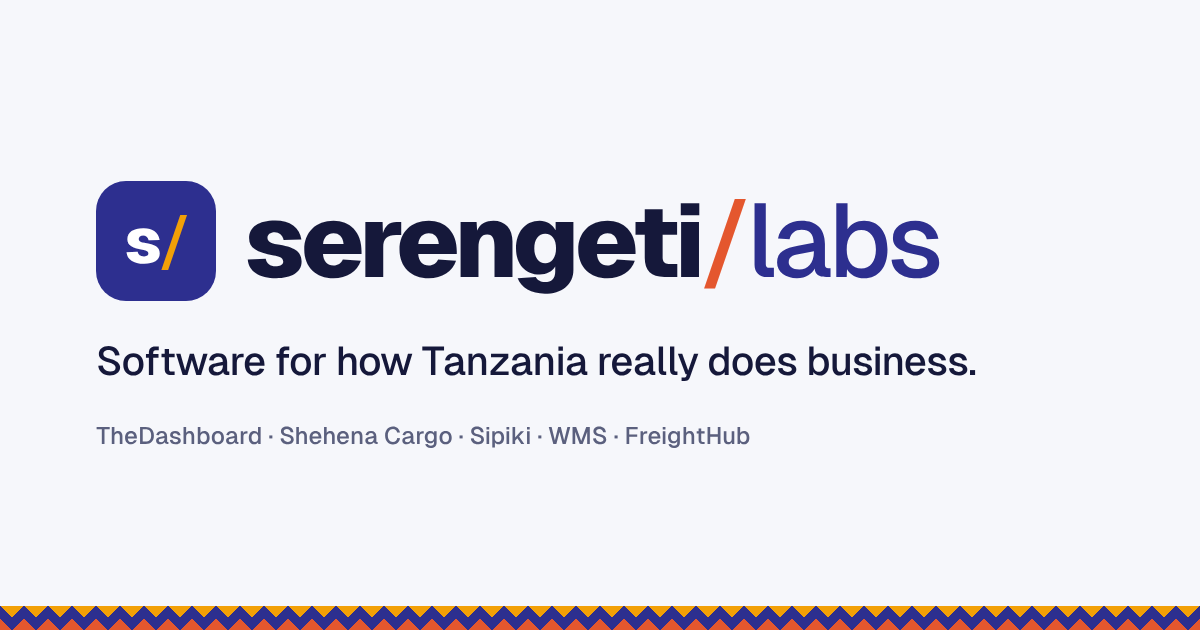
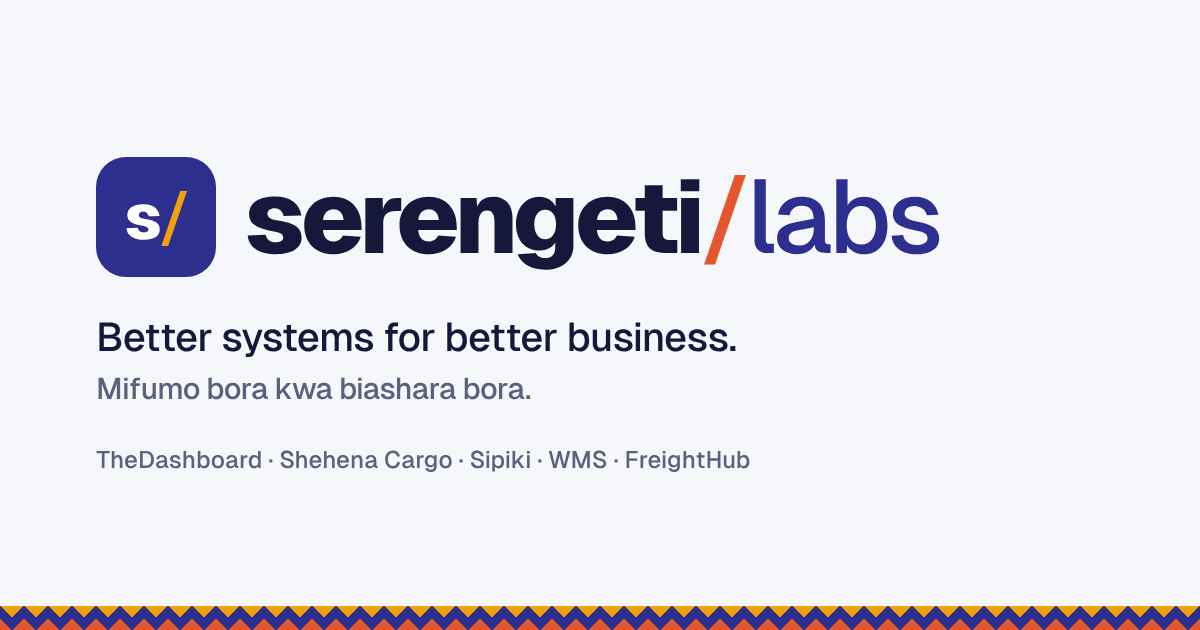
New tagline: Better systems for better business
Claude-Session: https://claude.ai/code/session_01KQ6XjyuvCsB7kb1ECrUmR9

diff --git a/index.html b/index.html
@@ -3,7 +3,7 @@
 <head>
 <meta charset="utf-8">
 <meta name="viewport" content="width=device-width, initial-scale=1, viewport-fit=cover">
-<title>Serengeti Labs · Software for how Tanzania really does business</title>
+<title>Serengeti Labs · Better systems for better business</title>
 <meta name="description" content="Serengeti Labs builds point of sale, cargo, warehouse and freight software for Tanzanian businesses: TheDashboard, Shehena Cargo, Sipiki, WMS and FreightHub.">
 <link rel="canonical" href="https://serengetilabs.co.tz/">
 <link rel="icon" href="/favicon.svg" type="image/svg+xml">
@@ -11,7 +11,7 @@
 <meta name="theme-color" content="#2D2F8F">
 <meta property="og:type" content="website">
 <meta property="og:site_name" content="Serengeti Labs">
-<meta property="og:title" content="Serengeti Labs · Software for how Tanzania really does business">
+<meta property="og:title" content="Serengeti Labs · Better systems for better business">
 <meta property="og:description" content="Serengeti Labs builds point of sale, cargo, warehouse and freight software for Tanzanian businesses: TheDashboard, Shehena Cargo, Sipiki, WMS and FreightHub.">
 <meta property="og:url" content="https://serengetilabs.co.tz/">
 <meta property="og:image" content="https://serengetilabs.co.tz/og-image.png">
@@ -288,7 +288,8 @@ footer{border-top:1px solid var(--line);padding-block:32px}
     <div class="wrap hero-grid">
       <div class="hero-copy">
         <p class="kicker">Software studio · Dar es Salaam</p>
-        <h1>Software for how Tanzania <mark>really</mark> does business.</h1>
+        <h1>Better systems for <mark>better</mark> business.</h1>
+        <p class="sw" style="margin-top:-10px;font-size:1.05rem">Mifumo bora kwa biashara bora.</p>
         <p class="lede">Point of sale for shops, road and air cargo management, and warehouse tools for freight teams. Built in Dar es Salaam, priced for local businesses, ready on the phone you already have.</p>
         <div class="cta-row">
           <a class="btn solid" href="#contact">Book a free demo</a>
